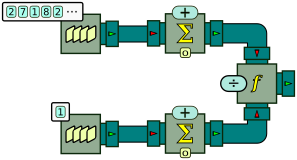
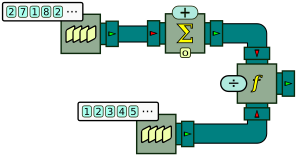
New examples

Changed region(s): [[0.1515, 0.625, 0.7576, 1.0]]

diff --git a/markdown/core/README.md b/markdown/core/README.md
@@ -5,9 +5,9 @@ BeepBeep is organized along a modular architecture. The main part of BeepBeep is
 
 ## Function objects {#functions}
 
-A <!--\index{function} \textbf{function}-->**function**<!--/i--> is something that accepts *arguments* and produces a return *value*. In BeepBeep, functions are "first-class citizens"; this means that every function that is to be applied on an event is itself an object, which inherits from a generic class called [Function](http://liflab.github.io/beepbeep-3/javadoc/ca/uqac/lif/cep/functions/Function.html). For example, the negation of a Boolean value is a function object called [Negation](http://liflab.github.io/beepbeep-3/javadoc/ca/uqac/lif/cep/util/Booleans/Negation.html); the sum of two numbers is also a function object called [Addition](http://liflab.github.io/beepbeep-3/javadoc/ca/uqac/lif/cep/util/Numbers/Addition.html).
+A <!--\index{function} \textbf{function}-->**function**<!--/i--> is something that accepts *arguments* and produces a return *value*. In BeepBeep, functions are "first-class citizens"; this means that every function that is to be applied on an event is itself an object, which inherits from a generic class called [`Function`](http://liflab.github.io/beepbeep-3/javadoc/ca/uqac/lif/cep/functions/Function.html). For example, the negation of a Boolean value is a function object called [`Negation`](http://liflab.github.io/beepbeep-3/javadoc/ca/uqac/lif/cep/util/Booleans/Negation.html); the sum of two numbers is also a function object called [`Addition`](http://liflab.github.io/beepbeep-3/javadoc/ca/uqac/lif/cep/util/Numbers/Addition.html).
 
-Function objects can be instantiated and manipulated directly. The BeepBeep classes [Booleans](http://liflab.github.io/beepbeep-3/javadoc/ca/uqac/lif/cep/util/Booleans.html), [Numbers](http://liflab.github.io/beepbeep-3/javadoc/ca/uqac/lif/cep/util/Numbers.html) and [Sets](http://liflab.github.io/beepbeep-3/javadoc/ca/uqac/lif/cep/util/Sets.html) define multiple function objects to manipulate <!--\index{Booleans (class)} Boolean-->Boolean<!--/i--> values, <!--\index{Numbers (class)} numbers-->numbers<!--/i--> and <!--\index{Sets (class)} sets-->sets<!--/i-->. These functions can be accessed through static member fields of these respective classes. Consider for example the following code snippet:
+Function objects can be instantiated and manipulated directly. The BeepBeep classes [`Booleans`](http://liflab.github.io/beepbeep-3/javadoc/ca/uqac/lif/cep/util/Booleans.html), [`Numbers`](http://liflab.github.io/beepbeep-3/javadoc/ca/uqac/lif/cep/util/Numbers.html) and [`Sets`](http://liflab.github.io/beepbeep-3/javadoc/ca/uqac/lif/cep/util/Sets.html) define multiple function objects to manipulate <!--\index{Booleans (class)} Boolean-->Boolean<!--/i--> values, <!--\index{Numbers (class)} numbers-->numbers<!--/i--> and <!--\index{Sets (class)} sets-->sets<!--/i-->. These functions can be accessed through static member fields of these respective classes. Consider for example the following code snippet:
 
 ``` java
         Function negation = Booleans.not;
@@ -18,15 +18,15 @@ Function objects can be instantiated and manipulated directly. The BeepBeep clas
 [⚓](https://github.com/liflab/beepbeep-3-examples/blob/master/Source/src/functions/FunctionUsage.java#L37)
 
 
-The first instruction gets a reference to a `Function` object, corresponding to the static member field `not` of class `Booleans`. This field refers to an instance of a function called [Negation](http://liflab.github.io/beepbeep-3/javadoc/ca/uqac/lif/cep/util/Booleans/Negation.html). As a matter of fact, this is the only way to get an instance of <!--\index{Negation@\texttt{Negation}} \texttt{Negation}-->`negation`<!--/i-->: its constructor is declared as `private`, which makes it impossible to create a new instance of the object using `new`. This is done on purpose, so that only one instance of `Negation` ever exists in a program --effectively making `Negation` a <!--\index{singleton} \emph{singleton}-->*singleton*<!--/i--> object. We shall see that the vast majority of `Function` objects are singletons, and are referred to using a static member field of some other object.
+The first instruction gets a reference to a `Function` object, corresponding to the static member field `not` of class `Booleans`. This field refers to an instance of a function called [`Negation`](http://liflab.github.io/beepbeep-3/javadoc/ca/uqac/lif/cep/util/Booleans/Negation.html). As a matter of fact, this is the only way to get an instance of <!--\index{Negation@\texttt{Negation}} \texttt{Negation}-->`negation`<!--/i-->: its constructor is declared as `private`, which makes it impossible to create a new instance of the object using `new`. This is done on purpose, so that only one instance of `Negation` ever exists in a program --effectively making `Negation` a <!--\index{singleton} \emph{singleton}-->*singleton*<!--/i--> object. We shall see that the vast majority of `Function` objects are singletons, and are referred to using a static member field of some other object.
 
-In order to perform a computation, every function defines a method called [evaluate()](http://liflab.github.io/beepbeep-3/javadoc/ca/uqac/lif/cep/functions/Function.html#evaluate(Object[], Object[])). This method takes two arguments; the first is an array of objects, corresponding to the input values of the function. The second is another array of objects, intended to receive the output values of the function. Hence, like for a processor, a function also has an input arity and an output arity.
+In order to perform a computation, every function defines a method called [`evaluate()`](http://liflab.github.io/beepbeep-3/javadoc/ca/uqac/lif/cep/functions/Function.html#evaluate(Object[], Object[])). This method takes two arguments; the first is an array of objects, corresponding to the input values of the function. The second is another array of objects, intended to receive the output values of the function. Hence, like for a processor, a function also has an input arity and an output arity.
 
 For function `Negation`, both are equal to one: the negation takes one Boolean value as its argument, and returns the negation of that value. The second line of the example creates an array of size 1 to hold the return value of the function. Line 3 calls `evaluate`, with the Boolean value `true` used as the argument of the function. Finally, line 4 prints the result:
 
     The return value of the function is: false
 
-Functions with an input arity of size greater than 1 work in the same way. In the following example, we get an instance of the [Addition](http://liflab.github.io/beepbeep-3/javadoc/ca/uqac/lif/cep/util/Numbers/Addition.html) function, and make a call on `evaluate` to get the value of 2+3.
+Functions with an input arity of size greater than 1 work in the same way. In the following example, we get an instance of the [`Addition`](http://liflab.github.io/beepbeep-3/javadoc/ca/uqac/lif/cep/util/Numbers/Addition.html) function, and make a call on `evaluate` to get the value of 2+3.
 
 ``` java
         Function addition = Numbers.addition;
@@ -58,7 +58,7 @@ The first instruction creates a new instance of another `Function` object, this 
 
 ## Applying a function on a stream {#applyfunction}
 
-A function is a "static" object: a call to `evaluate` receives a single set of arguments, computes a return value, and ends. In many cases, it may be desirable to apply a function to each event of a stream. In other words, we would like to "turn" a function into a processor that applies this function. The processor responsible for this is called [ApplyFunction](http://liflab.github.io/beepbeep-3/javadoc/ca/uqac/lif/cep/functions/ApplyFunction.html). When instantiated, <!--\index{ApplyFunction@\texttt{ApplyFunction}} \texttt{ApplyFunction}-->`ApplyFunction`<!--/i--> must be given a `Function` object; it calls this function's `evaluate` on each input event, and returns the result on its output pipe.
+A function is a "static" object: a call to `evaluate` receives a single set of arguments, computes a return value, and ends. In many cases, it may be desirable to apply a function to each event of a stream. In other words, we would like to "turn" a function into a processor that applies this function. The processor responsible for this is called [`ApplyFunction`](http://liflab.github.io/beepbeep-3/javadoc/ca/uqac/lif/cep/functions/ApplyFunction.html). When instantiated, <!--\index{ApplyFunction@\texttt{ApplyFunction}} \texttt{ApplyFunction}-->`ApplyFunction`<!--/i--> must be given a `Function` object; it calls this function's `evaluate` on each input event, and returns the result on its output pipe.
 
 In the following bit of code, an `ApplyFunction` is created by applying the Boolean negation function to an input trace of Boolean values:
 
@@ -153,7 +153,7 @@ Indeed, (2+3)×1=5, (7+1)×1=8, (1+4)×2=10, and so on.
 
 In the previous example, if we name the three input streams *x*, *y* and *z*, the processor chain we created corresponds informally to the expression (*x*+*y*)×*z*. However, having to write each arithmetical operator as an individual processor can become tedious. After all, (*x*+*y*)×*z* is itself a function *f*(*x*,*y*,*z*) of three variables; isn't there a way to create a `Function` object corresponding to this expression, and to give *that* to a single `ApplyFunction` processor?
 
-Fortunately, the answer is yes. It is possible to create complex functions by composing simpler ones, through the use of a special `Function` object called the [FunctionTree](http://liflab.github.io/beepbeep-3/javadoc/ca/uqac/lif/cep/functions/FunctionTree.html). As its name implies, a <!--\index{FunctionTree@\texttt{FunctionTree}} \texttt{FunctionTree}-->`FunctionTree`<!--/i--> is exactly that: a tree structure whose nodes can either be:
+Fortunately, the answer is yes. It is possible to create complex functions by composing simpler ones, through the use of a special `Function` object called the [`FunctionTree`](http://liflab.github.io/beepbeep-3/javadoc/ca/uqac/lif/cep/functions/FunctionTree.html). As its name implies, a <!--\index{FunctionTree@\texttt{FunctionTree}} \texttt{FunctionTree}-->`FunctionTree`<!--/i--> is exactly that: a tree structure whose nodes can either be:
 
 - a `Function` object;
 - another `FunctionTree`;
@@ -197,7 +197,7 @@ Note that a stream variable may appear more than once in a function tree. Hence 
 
 ## Forking a stream {#fork}
 
-Sometimes, it may be useful to perform multiple separate computations over the same stream. In order to do so, one must be able to <!--\index{Fork@\texttt{Fork}} ``split''-->"split"<!--/i--> the original stream into multiple identical copies. This is the purpose of the [Fork](http://liflab.github.io/beepbeep-3/javadoc/ca/uqac/lif/cep/tmf/Fork.html) processor.
+Sometimes, it may be useful to perform multiple separate computations over the same stream. In order to do so, one must be able to <!--\index{Fork@\texttt{Fork}} ``split''-->"split"<!--/i--> the original stream into multiple identical copies. This is the purpose of the [`Fork`](http://liflab.github.io/beepbeep-3/javadoc/ca/uqac/lif/cep/tmf/Fork.html) processor.
 
 As a first example, let us connect a queue source to create a fork processor that will replicate each input event in two output streams. The "2" passed as an argument to the fork's constructor signifies this.
 
@@ -275,7 +275,7 @@ The three lines should be printed almost instantaneously. This shows that all th
 
 ## Cumulate values {#cumulate}
 
-A variant of the function processor is the [Cumulate](http://liflab.github.io/beepbeep-3/javadoc/ca/uqac/lif/cep/functions/Cumulate.html) processor. Contrary to all the processors we have seen so far, which are stateless, <!--\index{Cumulate@\texttt{Cumulate}} \texttt{Cumulate}-->`Cumulate`<!--/i--> is our first example of a <!--\index{stateful processor} \textbf{stateful}-->**stateful**<!--/i--> processor: this means that the output it returns for a given event depends on what it has output in the past. In other words, a stateful processor has a "memory", and the same input event may produce different outputs. 
+A variant of the function processor is the [`Cumulate`](http://liflab.github.io/beepbeep-3/javadoc/ca/uqac/lif/cep/functions/Cumulate.html) processor. Contrary to all the processors we have seen so far, which are stateless, <!--\index{Cumulate@\texttt{Cumulate}} \texttt{Cumulate}-->`Cumulate`<!--/i--> is our first example of a <!--\index{stateful processor} \textbf{stateful}-->**stateful**<!--/i--> processor: this means that the output it returns for a given event depends on what it has output in the past. In other words, a stateful processor has a "memory", and the same input event may produce different outputs. 
 
 A `Cumulate` is given a function *f* of two arguments. Intuitively, if *x* is the previous value returned by the processor, its output on the next event *y* will be *f(x,y)*. Upon receiving the first event, since no previous value was ever set, the processor requires an initial value *t* to use in place of *x*.
 
@@ -295,7 +295,7 @@ for (int i = 0; i < 5; i++)
 [⚓](https://github.com/liflab/beepbeep-3-examples/blob/master/Source/src/basic/CumulativeSum.java#L41)
 
 
-We first wrap the `Addition` function into a [CumulativeFunction](http://liflab.github.io/beepbeep-3/javadoc/ca/uqac/lif/cep/functions/CumulativeFunction.html). This object extends addition by defining a start value *t*. It is then given to the `Cumulate` processor. Graphically, this can be drawn as follows:
+We first wrap the `Addition` function into a [`CumulativeFunction`](http://liflab.github.io/beepbeep-3/javadoc/ca/uqac/lif/cep/functions/CumulativeFunction.html). This object extends addition by defining a start value *t*. It is then given to the `Cumulate` processor. Graphically, this can be drawn as follows:
 
 ![Computing the cumulative sum of numbers.](CumulativeSum.png)
 
@@ -326,11 +326,7 @@ Consider for example the stream of numbers 2, 7, 1, 8, etc. After reading the fi
         Cumulate sum_proc = new Cumulate(
                 new CumulativeFunction<Number>(Numbers.addition));
         Connector.connect(numbers, OUTPUT, sum_proc, INPUT);
-        QueueSource ones = new QueueSource(1);
-        ones.addEvent(1);
-        Cumulate counter = new Cumulate(
-                new CumulativeFunction<Number>(Numbers.addition));
-        Connector.connect(ones, OUTPUT, counter, INPUT);
+        QueueSource counter = new QueueSource().setEvents(1, 2, 3, 4, 5, 6, 7);
         ApplyFunction division = new ApplyFunction(Numbers.division);
         Connector.connect(sum_proc, OUTPUT, division, LEFT);
         Connector.connect(counter, OUTPUT, division, RIGHT);
@@ -342,10 +338,34 @@ This example, however, requires a second queue just to count events received. Ou
 
 ![Running average that does not rely on an external counter.](AverageFork.png)
 
-We first fork the original stream of values in two copies. The topmost copy is used for the cumulative sum of values, as before. The bottom copy is sent into a processor called [TurnInto](http://liflab.github.io/beepbeep-3/javadoc/ca/uqac/lif/cep/functions/TurnInto.html); this processor replaces whatever input event it receives by the same predefined object. Here, it is instructed to <!--\index{TurnInto@\texttt{TurnInto}} turn-->turn<!--/i--> every event into the number 1. This stream of 1s is then summed, and the two streams are divided.
+We first fork the original stream of values in two copies. The topmost copy is used for the cumulative sum of values, as before. The bottom copy is sent into a processor called [`TurnInto`](http://liflab.github.io/beepbeep-3/javadoc/ca/uqac/lif/cep/functions/TurnInto.html); this processor replaces whatever input event it receives by the same predefined object. Here, it is instructed to <!--\index{TurnInto@\texttt{TurnInto}} turn-->turn<!--/i--> every event into the number 1. This stream of 1s is then summed, effectively creating a counter 1, 2, 3, etc. The two streams are then divided as in the original example.
 
-However, `Cumulate` does not have to work only with addition, and not even with numbers. Depending on the function *f*, cumulative processors can represent many other things.
+It shall be noted that, `Cumulate` does not have to work only with addition, and not even with numbers. Depending on the function *f*, cumulative processors can represent many other things. For example, in the next code snippet, we create a stream of Boolean values, and pipe it into a `Cumulate` processor, using <!--\index{conjunction (logical operator)} logical conjunction-->logical conjunction<!--/i--> ("and") as the function, and `true` as the start value:
+
+``` java
+QueueSource source = new QueueSource().setEvents(true, true, false, true, true);
+Cumulate and = new Cumulate(
+        new CumulativeFunction<Boolean>(Booleans.and));
+Connector.connect(source, and);
+Pullable p = and.getPullableOutput();
+for (int i = 0; i < 5; i++)
+{
+    System.out.println("The event is: " + p.pull());
+}
+```
+[⚓](https://github.com/liflab/beepbeep-3-examples/blob/master/Source/src/functions/CumulateAnd.java#L41)
 
 
+![Using the Boolean "and" operator in a `Cumulate` processor.](CumulateAnd.png)
+
+When receiving the first event (`true`), the processor computes its conjunction with the start value (also `true`), resulting in the first output event (`true`). The same thing happens for the second input event, resulting in the output event `true`. The third input event is `false`; its conjunction with the previous output event (`true`) results in `false`. From then on, the processor will return `false`, no matter the input events that arrive. This is because the conjunction of `false` with anything always returns `false`. Hence, the expected output of the program is this:
+
+    The event is: true
+    The event is: true
+    The event is: false
+    The event is: false
+    The event is: false
+
+Intuitively, this processor performs the logical conjunction of all events received so far. This conjunction becomes false forever, as soon as a `false` event is received.
 
 <!-- :wrap=soft: -->

diff --git a/markdown/basic/README.md b/markdown/basic/README.md
@@ -5,7 +5,7 @@ In this chapter, you will learn about the the fundamental principles for using B
 
 ## Processors
 
-The first fundamental building block of BeepBeep is an object called a <!--\index{processor} \textbf{processor}-->**processor**<!--/i-->. This object that takes one or more *event streams* as its input, and and returns one or more *event streams* as its output. A processor is a stateful device: for a given input, its output may depend on events received in the past. Virtually all the processing of event traces is done through the action of a processor, or a combination of multiple processors chained together to achieve the desired functionality. In terms of Java, all processors are descendents of the generic [Processor](http://liflab.github.io/beepbeep-3/javadoc/ca/uqac/lif/cep/Processor.html) class.
+The first fundamental building block of BeepBeep is an object called a <!--\index{processor} \textbf{processor}-->**processor**<!--/i-->. This object that takes one or more *event streams* as its input, and and returns one or more *event streams* as its output. A processor is a stateful device: for a given input, its output may depend on events received in the past. Virtually all the processing of event traces is done through the action of a processor, or a combination of multiple processors chained together to achieve the desired functionality. In terms of Java, all processors are descendents of the generic [`Processor`](http://liflab.github.io/beepbeep-3/javadoc/ca/uqac/lif/cep/Processor.html) class.
 
 An easy way to understand processors is to think of them as "boxes" having one or more "pipes". Some of these pipes are used to feed events to the processor (input pipes), while others are used to collect events produced by the processor (output pipes). Throughout this book, we will often represent processors graphically exactly in this way, as the following figure shows. A processor object is represented by a square box, with a pictogram giving an idea of the type of computation it executes on events. On the sides of this box are one or more "pipes" representing its inputs and outputs. Input pipes are indicated with a red, inward-pointing triangle, while output pipes are represented by a green, outward-pointing triangle. 
 
@@ -21,7 +21,7 @@ A processor produces its output in a *streaming* fashion: this means that output
 
 There are two ways to interact with a processor. The first is by getting a hold of the processor's output pipe, and by repeatedly asking for new events. The action of requesting a new output event is called **pulling**, and this mode of operation is called <!--\index{pull mode} \emph{pull mode}-->*pull mode*<!--/i-->.
 
-Let us instantiate a simple processor and pull events from it. The following code snippet shows such a thing, using a processor called [QueueSource](http://liflab.github.io/beepbeep-3/javadoc/ca/uqac/lif/cep/QueueSource.html).
+Let us instantiate a simple processor and pull events from it. The following code snippet shows such a thing, using a processor called [`QueueSource`](http://liflab.github.io/beepbeep-3/javadoc/ca/uqac/lif/cep/QueueSource.html).
 
 ``` java
 QueueSource source = new QueueSource();
@@ -42,9 +42,9 @@ for (int i = 0; i < 8; i++)
 
 As one can see, the `QueueSource` object is a special type of processor that has an output pipe, but no input pipe (that is, its input arity is zero). This means that it does not produce events based on the output produced by other processors; in other words, it is impossible to connect another processor into a `QueueSource` (or into any other processor of input arity zero, for that matter). Rather, output events are produced "out of thin air" --or more accurately, from a list of values that is given to the source when it instantiated. In the schema, this list is shown in the white rectangle that overlaps with the source's box.
 
-To collect events from a processor's output, one uses a special object called a [Pullable](http://liflab.github.io/beepbeep-3/javadoc/ca/uqac/lif/cep/Pullable.html). The third instruction takes care of obtaining an instance of <!--\index{Pullable@\texttt{Pullable}} \texttt{Pullable}-->`Pullable`<!--/i--> corresponding to `QueueSource`'s output.
+To collect events from a processor's output, one uses a special object called a [`Pullable`](http://liflab.github.io/beepbeep-3/javadoc/ca/uqac/lif/cep/Pullable.html). The third instruction takes care of obtaining an instance of <!--\index{Pullable@\texttt{Pullable}} \texttt{Pullable}-->`Pullable`<!--/i--> corresponding to `QueueSource`'s output.
 
-A `Pullable` can be seen as a form of iterator over an output trace. It provides a method, called [pull()](http://liflab.github.io/beepbeep-3/javadoc/ca/uqac/lif/cep/Pullable.html#pull()); each call to `pull()` asks the corresponding processor to produce one more output event. The loop in the previous code snippet amounts to calling `pull()` eight times. Since events handled by processors can be anything (Booleans, numbers, strings, sets, etc.), the method returns an object of the most generic type, i.e. `Object`. It is up to the user of a processor to know what precise type of event this return value can be cast into. In our case, we know that the `QueueSource` we created returns integers, and so we manually cast the output of `pull()` into objects of this type.
+A `Pullable` can be seen as a form of iterator over an output trace. It provides a method, called [`pull()`](http://liflab.github.io/beepbeep-3/javadoc/ca/uqac/lif/cep/Pullable.html#pull()); each call to `pull()` asks the corresponding processor to produce one more output event. The loop in the previous code snippet amounts to calling `pull()` eight times. Since events handled by processors can be anything (Booleans, numbers, strings, sets, etc.), the method returns an object of the most generic type, i.e. `Object`. It is up to the user of a processor to know what precise type of event this return value can be cast into. In our case, we know that the `QueueSource` we created returns integers, and so we manually cast the output of `pull()` into objects of this type.
 
 Since the queue source loops through its array of events, after reaching the last (32), it will restart from the beginning of its list. The expected output of this program is:
 
@@ -89,7 +89,7 @@ for (int i = 0; i < 8; i++)
 
 First, a `QueueSource` is created as before; then, an instance of another processor called <!--\index{Doubler@\texttt{Doubler}} \texttt{Doubler}-->`Doubler`<!--/i--> is also created. For the sake of the example, let us simply assume that `Doubler` takes arbitrary integers as its input, multiples them by two, and returns the result as its output.
 
-The next instruction uses the [Connector](http://liflab.github.io/beepbeep-3/javadoc/ca/uqac/lif/cep/Connector.html) object to pipe the two processors together. The call to method [connect()](http://liflab.github.io/beepbeep-3/javadoc/ca/uqac/lif/cep/Connector.html#connect(Processor ...)) sets up the processors so that the output of `source` is sent directly to the input of `doubler`. Graphically, this can be represented as follows:
+The next instruction uses the [`Connector`](http://liflab.github.io/beepbeep-3/javadoc/ca/uqac/lif/cep/Connector.html) object to pipe the two processors together. The call to method [`connect()`](http://liflab.github.io/beepbeep-3/javadoc/ca/uqac/lif/cep/Connector.html#connect(Processor ...)) sets up the processors so that the output of `source` is sent directly to the input of `doubler`. Graphically, this can be represented as follows:
 
 ![Piping the output of a `QueueSource` into a `Doubler` processor.](PipingUnary.png)
 
@@ -174,7 +174,7 @@ for (int i = 0; i < 5; i++)
 [⚓](https://github.com/liflab/beepbeep-3-examples/blob/master/Source/src/basic/PipingBinary.java#L42)
 
 
-This time, we create *two* sources of numbers. We intend to connect these two sources of numbers to a processor called `add`, which, incidentally, has two input pipes. The interesting bit comes in the calls to [connect()](http://liflab.github.io/beepbeep-3/javadoc/ca/uqac/lif/cep/Connector.html#connect(ca.uqac.lif.cep.Processor, int, ca.uqac.lif.cep.Processor, int)), which now includes a few more arguments. The first call connects the output of `source1` to the *first* input of a processor called `add`. The second call connects the output of `source2` to the *second* input of `add`. Graphically, this is represented as follows:
+This time, we create *two* sources of numbers. We intend to connect these two sources of numbers to a processor called `add`, which, incidentally, has two input pipes. The interesting bit comes in the calls to [`connect()`](http://liflab.github.io/beepbeep-3/javadoc/ca/uqac/lif/cep/Connector.html#connect(ca.uqac.lif.cep.Processor, int, ca.uqac.lif.cep.Processor, int)), which now includes a few more arguments. The first call connects the output of `source1` to the *first* input of a processor called `add`. The second call connects the output of `source2` to the *second* input of `add`. Graphically, this is represented as follows:
 
 ![A processor with an input arity of two.](PipingBinary.png)
 
@@ -258,13 +258,13 @@ Since numbers cannot be converted into Booleans, the call to `connect()` will th
 
 Here "ABS" and "!" are the symbols defined for `av` and `neg`, respectively. As with the `PullableException` discussed earlier, this is a *runtime* error. Processor inputs and outputs are not statically typed, so the above program compiles without problem. The error is only spotted when the program is being executed, and the `Connector` object realizes that it is being asked to link processors of incorrect types.
 
-A processor can be queried for the types it accepts for input number *n* by using the method [getInputType()](http://liflab.github.io/beepbeep-3/javadoc/ca/uqac/lif/cep/Processor.html#getInputType(int)); ditto for the type produced at output number *n* with [getOutputType()](http://liflab.github.io/beepbeep-3/javadoc/ca/uqac/lif/cep/Processor.html#getOutputType(int)).
+A processor can be queried for the types it accepts for input number *n* by using the method [`getInputType()`](http://liflab.github.io/beepbeep-3/javadoc/ca/uqac/lif/cep/Processor.html#getInputType(int)); ditto for the type produced at output number *n* with [`getOutputType()`](http://liflab.github.io/beepbeep-3/javadoc/ca/uqac/lif/cep/Processor.html#getOutputType(int)).
 
 ## Pushing events {#pushing}
 
 Earlier we mentioned there were two ways to interact with a processor. The first, which we have used so far, is called *pulling*. The second, as you may guess, is called **pushing**, and works more or less in reverse. In so-called <!--\index{push mode} \emph{push mode}-->*push mode*<!--/i-->, rather than querying events form a processor's output, we give events to a processor's input. This has for effect of triggering the processor's computation and "pushing" events (if any) to the processor's output.
 
-Let us instantiate a simple processor and push events to it. The following code snippet shows such a thing, using a processor called [QueueSink](http://liflab.github.io/beepbeep-3/javadoc/ca/uqac/lif/cep/QueueSink.html).
+Let us instantiate a simple processor and push events to it. The following code snippet shows such a thing, using a processor called [`QueueSink`](http://liflab.github.io/beepbeep-3/javadoc/ca/uqac/lif/cep/QueueSink.html).
 
 ``` java
 QueueSink sink = new QueueSink();
@@ -284,7 +284,7 @@ System.out.println("Events in the sink: " + queue);
 
 ![Pushing events to a `QueueSink`.](QueueSinkUsage.png)
 
-In order to push events to this processor, we need to get a reference to its input pipe; this is done with method [getPushableInput()](http://liflab.github.io/beepbeep-3/javadoc/ca/uqac/lif/cep/Processor.html#getPushableInput()), which gives us an instance of a [Pushable](http://liflab.github.io/beepbeep-3/javadoc/ca/uqac/lif/cep/Pushable.html) object. A <!--\index{Pushable@\texttt{Pushable}} \texttt{Pushable}-->`Pushable`<!--/i--> defines one important method, called `push()`, which allows us to give events to its associated processor. In the previous code snippet, we see two calls to method `push`, sending the strings "foo" and "bar".
+In order to push events to this processor, we need to get a reference to its input pipe; this is done with method [`getPushableInput()`](http://liflab.github.io/beepbeep-3/javadoc/ca/uqac/lif/cep/Processor.html#getPushableInput()), which gives us an instance of a [`Pushable`](http://liflab.github.io/beepbeep-3/javadoc/ca/uqac/lif/cep/Pushable.html) object. A <!--\index{Pushable@\texttt{Pushable}} \texttt{Pushable}-->`Pushable`<!--/i--> defines one important method, called `push()`, which allows us to give events to its associated processor. In the previous code snippet, we see two calls to method `push`, sending the strings "foo" and "bar".
 
 As we said, `QueueSink` simply accumulates the pushed events into a queue. It is possible to access that queue by calling a method called `getQueue()` on the processor, as is done on line 5. The contents of that queue are then printed; at this point in the program, the queue contains the strings "foo" and "bar", resulting in the first line printed at the console:
 
@@ -419,7 +419,7 @@ This time, we attempt to push a string ("foo") into `passthrough` --but this, to
 - In pull mode, all upstream endpoints must be connected to a source
 - In push mode, all downstream endpoints must be connected to a sink
 
-If, for whatever reason, you want to discard events from a downstream processor, you still must connect it to a sink. However, there is a special sink, called [BlackHole](http://liflab.github.io/beepbeep-3/javadoc/ca/uqac/lif/cep/tmp/BlackHole.html), that does exactly that.
+If, for whatever reason, you want to discard events from a downstream processor, you still must connect it to a sink. However, there is a special sink, called [`BlackHole`](http://liflab.github.io/beepbeep-3/javadoc/ca/uqac/lif/cep/tmp/BlackHole.html), that does exactly that.
 
 - - -
 

diff --git a/pre-markdown/core/README.md b/pre-markdown/core/README.md
@@ -201,10 +201,22 @@ This example, however, requires a second queue just to count events received. Ou
 
 {@img doc-files/basic/AverageFork.png}{Running average that does not rely on an external counter.}{.6}
 
-We first fork the original stream of values in two copies. The topmost copy is used for the cumulative sum of values, as before. The bottom copy is sent into a processor called {@link jdc:ca.uqac.lif.cep.functions.TurnInto TurnInto}; this processor replaces whatever input event it receives by the same predefined object. Here, it is instructed to <!--\index{TurnInto@\texttt{TurnInto}} turn-->turn<!--/i--> every event into the number 1. This stream of 1s is then summed, and the two streams are divided.
+We first fork the original stream of values in two copies. The topmost copy is used for the cumulative sum of values, as before. The bottom copy is sent into a processor called {@link jdc:ca.uqac.lif.cep.functions.TurnInto TurnInto}; this processor replaces whatever input event it receives by the same predefined object. Here, it is instructed to <!--\index{TurnInto@\texttt{TurnInto}} turn-->turn<!--/i--> every event into the number 1. This stream of 1s is then summed, effectively creating a counter 1, 2, 3, etc. The two streams are then divided as in the original example.
 
-However, `Cumulate` does not have to work only with addition, and not even with numbers. Depending on the function *f*, cumulative processors can represent many other things.
+It shall be noted that, `Cumulate` does not have to work only with addition, and not even with numbers. Depending on the function *f*, cumulative processors can represent many other things. For example, in the next code snippet, we create a stream of Boolean values, and pipe it into a `Cumulate` processor, using <!--\index{conjunction (logical operator)} logical conjunction-->logical conjunction<!--/i--> ("and") as the function, and `true` as the start value:
 
+{@snipm functions/CumulateAnd.java}{/}
 
+{@img doc-files/functions/CumulateAnd.png}{Using the Boolean "and" operator in a `Cumulate` processor.}{.6}
+
+When receiving the first event (`true`), the processor computes its conjunction with the start value (also `true`), resulting in the first output event (`true`). The same thing happens for the second input event, resulting in the output event `true`. The third input event is `false`; its conjunction with the previous output event (`true`) results in `false`. From then on, the processor will return `false`, no matter the input events that arrive. This is because the conjunction of `false` (the previous output event) with anything always returns `false`. Hence, the expected output of the program is this:
+
+    The event is: true
+    The event is: true
+    The event is: false
+    The event is: false
+    The event is: false
+
+Intuitively, this processor performs the logical conjunction of all events received so far. This conjunction becomes false forever, as soon as a `false` event is received.
 
 <!-- :wrap=soft: -->

diff --git a/markdown/custom/README.md b/markdown/custom/README.md
@@ -7,4 +7,4 @@ This modular organization has three advantages. First, palettes are a flexible a
 
 ## <a name="context">Context</a>
 
-Each processor instance is also associated with a **context**. A context is a persistent and modifiable map that associates names to arbitrary objects. When a processor is duplicated, its context is duplicated as well. If a processor requires the evaluation of a function, the current context of the processor is passed to the function. Hence the function's arguments may contain references to names of context elements, which are replaced with their concrete values before evaluation. Basic processors, such as those described in this section, do not use context. However, some special processors defined in extensions to BeepBeep's core (the Moore machine and the first-order quantifiers, among others) manipulate their [jdc:ca.uqac.lif.cep.Context](http://liflab.github.io/beepbeep-3/javadoc/ca/uqac/lif/cep/Context.html) object.
+Each processor instance is also associated with a **context**. A context is a persistent and modifiable map that associates names to arbitrary objects. When a processor is duplicated, its context is duplicated as well. If a processor requires the evaluation of a function, the current context of the processor is passed to the function. Hence the function's arguments may contain references to names of context elements, which are replaced with their concrete values before evaluation. Basic processors, such as those described in this section, do not use context. However, some special processors defined in extensions to BeepBeep's core (the Moore machine and the first-order quantifiers, among others) manipulate their [`jdc:ca.uqac.lif.cep.Context`](http://liflab.github.io/beepbeep-3/javadoc/ca/uqac/lif/cep/Context.html) object.

diff --git a/markdown/custom/custom_functions.md b/markdown/custom/custom_functions.md
@@ -3,7 +3,7 @@ Creating custom functions
 
 In the case where none of the available functions (or a composition thereof) suits your needs, BeepBeep also offers the possibility to create your own `Function` objects, composed of arbitrary Java code.
 
-If your intended function is 1:1 or 2:1 (that is, it has an input arity of 1 or 2, and an output arity of 1), the easiest way is to create a new class that extends either [UnaryFunction](http://liflab.github.io/beepbeep-3/javadoc/ca/uqac/lif/cep/functions/UnaryFunction.html) or [BinaryFunction](http://liflab.github.io/beepbeep-3/javadoc/ca/uqac/lif/cep/functions/BinaryFunction.html). These classes take care of most of the housekeeping associated to functions, and require you to simply implement a method called `getValue()`, responsible for computing the output, given some input(s). In this method, you can write whatever Java code you want.
+If your intended function is 1:1 or 2:1 (that is, it has an input arity of 1 or 2, and an output arity of 1), the easiest way is to create a new class that extends either [`UnaryFunction`](http://liflab.github.io/beepbeep-3/javadoc/ca/uqac/lif/cep/functions/UnaryFunction.html) or [`BinaryFunction`](http://liflab.github.io/beepbeep-3/javadoc/ca/uqac/lif/cep/functions/BinaryFunction.html). These classes take care of most of the housekeeping associated to functions, and require you to simply implement a method called `getValue()`, responsible for computing the output, given some input(s). In this method, you can write whatever Java code you want.
 
 As an example, let us create a function that, given a number, returns whether this number is prime. It is therefore a 1:1 function, so we will create a class that extends `UnaryFunction`.
 
